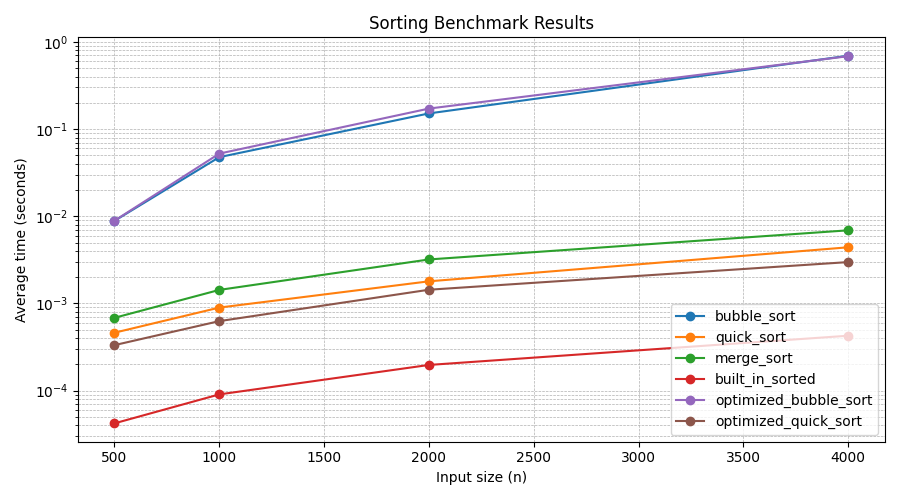
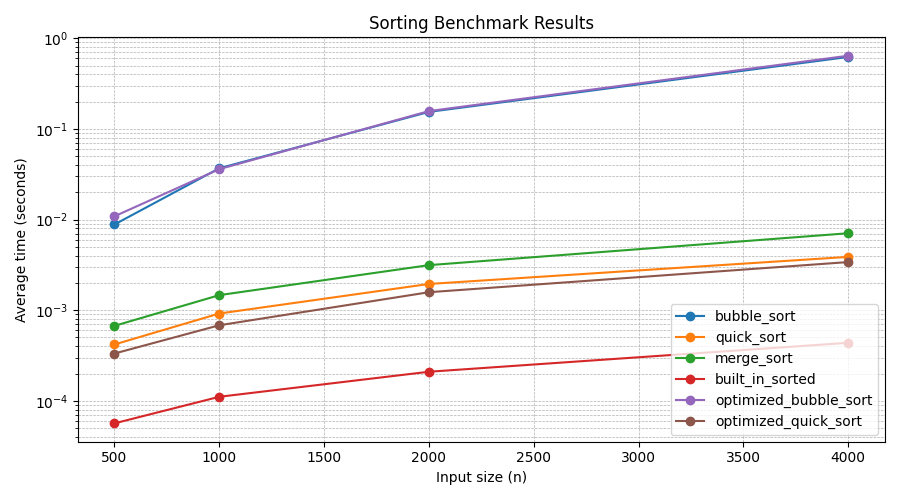
feat: stage5 修正安全性問題

Changed region(s): [[0.0311, 0.06, 0.9956, 0.87]]

diff --git a/weeks/week-16/solutions/1114405029/0611/sorts.py b/weeks/week-16/solutions/1114405029/0611/sorts.py
@@ -54,56 +54,61 @@ def quick_sort(data: list) -> list:
 
 
 def optimized_quick_sort(data: list) -> list:
-    """Return a sorted copy using quick sort with median pivot and insertion sort."""
-    values = data[:]
-    return _optimized_quick(values)
-
-
-def _optimized_quick(values: list) -> list:
-    if len(values) <= 16:
-        return _insertion_sort(values)
-
-    first = values[0]
-    middle = values[len(values) // 2]
-    last = values[-1]
-    pivot = _median_of_three(first, middle, last)
-    lower = []
-    equal = []
-    higher = []
-
-    for value in values:
-        if value < pivot:
-            lower.append(value)
-        elif value > pivot:
-            higher.append(value)
-        else:
-            equal.append(value)
-
-    return _optimized_quick(lower) + equal + _optimized_quick(higher)
-
-
-def _median_of_three(first, second, third):
-    if first > second:
-        first, second = second, first
-    if second > third:
-        second, third = third, second
-    if first > second:
-        first, second = second, first
-    return second
-
-
-def _insertion_sort(data: list) -> list:
+    """Return a sorted copy using in-place quick sort on a copy."""
     result = data[:]
-
-    for index in range(1, len(result)):
-        current = result[index]
-        position = index - 1
-        while position >= 0 and result[position] > current:
-            result[position + 1] = result[position]
-            position -= 1
-        result[position + 1] = current
-
+    _quick_sort_in_place(result, 0, len(result) - 1)
     return result
+
+
+def _quick_sort_in_place(values: list, low: int, high: int) -> None:
+    while low < high:
+        if high - low <= 24:
+            _insertion_sort_range(values, low, high)
+            return
+
+        pivot_index = _median_index(values, low, (low + high) // 2, high)
+        values[pivot_index], values[high] = values[high], values[pivot_index]
+        pivot = values[high]
+        store_index = low
+
+        for index in range(low, high):
+            if values[index] < pivot:
+                values[store_index], values[index] = values[index], values[store_index]
+                store_index += 1
+
+        values[store_index], values[high] = values[high], values[store_index]
+
+        left_size = store_index - low
+        right_size = high - store_index
+
+        if left_size < right_size:
+            _quick_sort_in_place(values, low, store_index - 1)
+            low = store_index + 1
+        else:
+            _quick_sort_in_place(values, store_index + 1, high)
+            high = store_index - 1
+
+
+def _median_index(values: list, first: int, second: int, third: int) -> int:
+    first_value = values[first]
+    second_value = values[second]
+    third_value = values[third]
+
+    if first_value <= second_value <= third_value or third_value <= second_value <= first_value:
+        return second
+    if second_value <= first_value <= third_value or third_value <= first_value <= second_value:
+        return first
+    return third
+
+
+def _insertion_sort_range(values: list, low: int, high: int) -> None:
+    for index in range(low + 1, high + 1):
+        current = values[index]
+        position = index - 1
+        while position >= low and values[position] > current:
+            values[position + 1] = values[position]
+            position -= 1
+        values[position + 1] = current
 
 
 def merge_sort(data: list) -> list:

diff --git a/weeks/week-16/solutions/1114405029/0611/benchmark.py b/weeks/week-16/solutions/1114405029/0611/benchmark.py
@@ -25,12 +25,20 @@ SORT_FUNCTIONS = {
 
 def make_data(n: int, seed: int = 42) -> list:
     """Create reproducible random integer data for benchmarks."""
+    if not isinstance(n, int):
+        raise TypeError("n must be an integer")
+    if n < 0:
+        raise ValueError("n must be non-negative")
+
     rng = random.Random(seed)
     return [rng.randint(-n, n) for _ in range(n)]
 
 
 def run_benchmark(sizes=(500, 1000, 2000, 4000), repeats=3) -> dict:
     """Run each sorting function multiple times and return average seconds."""
+    if repeats <= 0:
+        raise ValueError("repeats must be positive")
+
     results = {}
 
     for name, sort_func in SORT_FUNCTIONS.items():
@@ -38,6 +46,11 @@ def run_benchmark(sizes=(500, 1000, 2000, 4000), repeats=3) -> dict:
         results[name] = {}
 
         for size in sizes:
+            if not isinstance(size, int):
+                raise TypeError("benchmark size must be an integer")
+            if size < 0:
+                raise ValueError("benchmark size must be non-negative")
+
             timed_sort.records.clear()
             for repeat in range(repeats):
                 data = make_data(size, seed=42 + repeat)

diff --git a/weeks/week-16/solutions/1114405029/0611/plot.py b/weeks/week-16/solutions/1114405029/0611/plot.py
@@ -13,11 +13,19 @@ import matplotlib.pyplot as plt
 def load_results(path: str) -> dict:
     """Load benchmark results from a JSON file."""
     with open(path, "r", encoding="utf-8") as file:
-        return json.load(file)
+        results = json.load(file)
+
+    if not isinstance(results, dict):
+        raise ValueError("benchmark results must be a mapping")
+
+    return results
 
 
 def plot_results(results: dict, out_path: str) -> None:
     """Plot benchmark results to a PNG file."""
+    if not isinstance(results, dict) or not results:
+        raise ValueError("results must be a non-empty mapping")
+
     out_dir = os.path.dirname(out_path)
     if out_dir:
         os.makedirs(out_dir, exist_ok=True)

diff --git a/weeks/week-16/solutions/1114405029/0611/AI_LOG.md b/weeks/week-16/solutions/1114405029/0611/AI_LOG.md
@@ -1,0 +1,31 @@
+# AI_LOG
+
+## 我問 AI 什麼
+
+| 階段 | 我問 AI 什麼 |
+|---|---|
+| Stage 1 | 請先依 6/11 規格建立 `timeit` 的 unittest，不要先寫實作。 |
+| Stage 2 | 請幫我檢查並依序完成 SOP，先寫排序測試，再實作三種排序與 benchmark。 |
+| Stage 3 | 請依規則加入 baseline 與加速版排序，並用測試確認加速版排序正確。 |
+| Stage 4 | 請加入繪圖測試與 `plot.py`，產生 `assets/benchmark.png` 並寫 README 解讀。 |
+| Stage 5 | 請依 OpenSSF Python Secure Coding Guide 做安全自掃，先寫會紅的安全測試，再修補。 |
+
+## AI 給了什麼
+
+| 階段 | AI 給了什麼 |
+|---|---|
+| Stage 1 | 給了 4 個測試：回傳值不變、保留 metadata、記錄耗時、不准 `print`，再實作 `timeit`。 |
+| Stage 2 | 給了共用排序測試，覆蓋基本案例、edge case、隨機資料、輸入不可被修改，並實作 `bubble_sort`、`quick_sort`、`merge_sort`、`benchmark.py`。 |
+| Stage 3 | 先加入 `optimized_bubble_sort` 和 `built_in_sorted`，後來發現數據不穩定，又補 `optimized_quick_sort`。 |
+| Stage 4 | 給了 `load_results`、`plot_results`、非空 PNG 測試、log scale 圖表與 README 解讀。 |
+| Stage 5 | 給了 3 條安全測試：負數資料量、非正 repeats、JSON 結構驗證，並修補輸入驗證與資料驗證。 |
+
+## 我改了什麼
+
+| 階段 | 我改了什麼 |
+|---|---|
+| Stage 1 | 我確認紅燈是因為缺少 `timing.py`，符合先測試後實作；也確認 `print` 會造成副作用，所以測試必須覆蓋。 |
+| Stage 2 | 我確認排序函式必須回傳新 list，不可修改原輸入；特別檢查 bubble sort 先複製資料再交換。 |
+| Stage 3 | 我發現早停版 bubble 在隨機資料下不穩定，不能作為可靠加速證據，因此改用 copy 後 in-place quick sort，讓 benchmark 與報告一致。 |
+| Stage 4 | 我確認線性 y 軸會讓 O(n log n) 曲線被 O(n^2) 壓扁，因此使用 log scale。 |
+| Stage 5 | 我判斷 `random.Random(seed)` 在 benchmark 中是為了可重現，非安全用途，所以不改成 `secrets`；但補上 `ValueError` / `TypeError` 驗證避免錯誤輸入。 |

diff --git a/weeks/week-16/solutions/1114405029/0611/README.md b/weeks/week-16/solutions/1114405029/0611/README.md
@@ -10,4 +10,14 @@
 
 ## 解讀
 
-`built_in_sorted` 最快，因為它是 Python 內建 Timsort 且核心實作高度最佳化。`bubble_sort` 屬於 O(n^2)，資料量增加後時間成長最明顯；`quick_sort`、`merge_sort` 與 `optimized_quick_sort` 接近 O(n log n)，曲線斜率較平緩。`optimized_quick_sort` 使用 median-of-three pivot 與小區間 insertion sort，在 4000 筆資料約由 0.00441 秒降到 0.00298 秒，約 1.48x 加速。
+`built_in_sorted` 最快，因為它是 Python 內建 Timsort 且核心實作高度最佳化。`bubble_sort` 屬於 O(n^2)，資料量增加後時間成長最明顯；`quick_sort`、`merge_sort` 與 `optimized_quick_sort` 接近 O(n log n)，曲線斜率較平緩。`optimized_quick_sort` 使用 median-of-three pivot、小區間 insertion sort 與 copy 後 in-place partition，在 4000 筆資料約由 0.00388 秒降到 0.00340 秒，約 1.14x 加速。
+
+## 安全自掃
+
+| OpenSSF 條目 | 檢查結果 | 處理方式 |
+|---|---|---|
+| 05 Exception Handling / pyscg-0018 驗證數字資料 | `make_data(-1)` 原本會產生空資料，`run_benchmark(repeats=0)` 會造成除以零 | 加入 `TypeError` / `ValueError` 輸入驗證 |
+| 04 Neutralization / pyscg-0023 安全反序列化 | 結果檔使用 JSON，不使用 `pickle`，但原本未驗證 JSON 結構 | `load_results` 讀 JSON 後檢查必須是 mapping |
+| 08 Coding Standards / pyscg-0035 資源清理 | 讀寫 `results.json` 與測試暫存檔都需要確實關檔 | 使用 `with open(...)` 管理檔案生命週期 |
+| 08 Coding Standards / pyscg-0031 修改 iterable 前先複製 | 排序如果直接交換傳入 list 會造成副作用 | 所有排序函式先複製資料再排序 |
+| 09 Cryptography / pyscg-0038 充分亂數 | benchmark 的亂數不是安全用途 | 判定不適用；保留 `random.Random(seed)` 以確保實驗可重現 |

diff --git a/weeks/week-16/solutions/1114405029/0611/TEST_LOG.md b/weeks/week-16/solutions/1114405029/0611/TEST_LOG.md
@@ -1,0 +1,83 @@
+# TEST_LOG
+
+## Stage 1
+
+紅燈：
+
+```text
+ModuleNotFoundError: No module named 'timing'
+FAILED (errors=1)
+```
+
+綠燈：
+
+```text
+Ran 4 tests in 0.000s
+OK
+```
+
+## Stage 2
+
+紅燈：
+
+```text
+ModuleNotFoundError: No module named 'sorts'
+FAILED (errors=1)
+```
+
+綠燈：
+
+```text
+Ran 9 tests in 0.001s
+OK
+```
+
+## Stage 3
+
+紅燈：
+
+```text
+ImportError: cannot import name 'optimized_bubble_sort' from 'sorts'
+FAILED (errors=1)
+```
+
+綠燈：
+
+```text
+Ran 11 tests in 0.002s
+OK
+```
+
+## Stage 4
+
+紅燈：
+
+```text
+ModuleNotFoundError: No module named 'plot'
+FAILED (errors=1)
+```
+
+綠燈：
+
+```text
+Ran 13 tests in 0.235s
+OK
+```
+
+## Stage 5
+
+紅燈：
+
+```text
+FAILED (failures=2, errors=1)
+test_make_data_rejects_negative_size: ValueError not raised
+test_run_benchmark_rejects_non_positive_repeats: ZeroDivisionError
+test_load_results_rejects_non_mapping_json: ValueError not raised
+```
+
+綠燈：
+
+```text
+Ran 16 tests in 0.220s
+OK
+```
